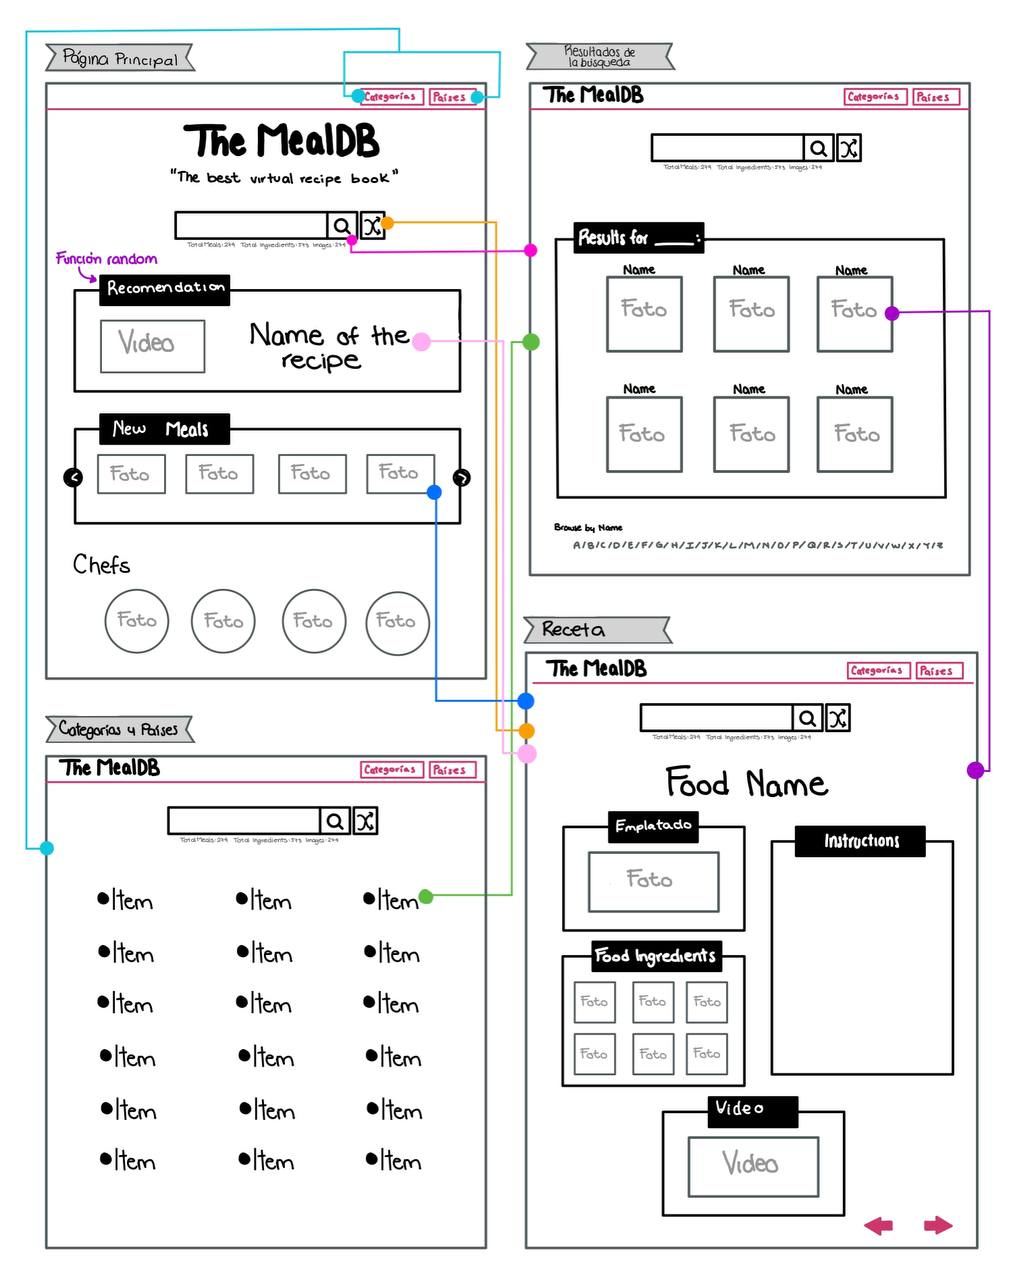
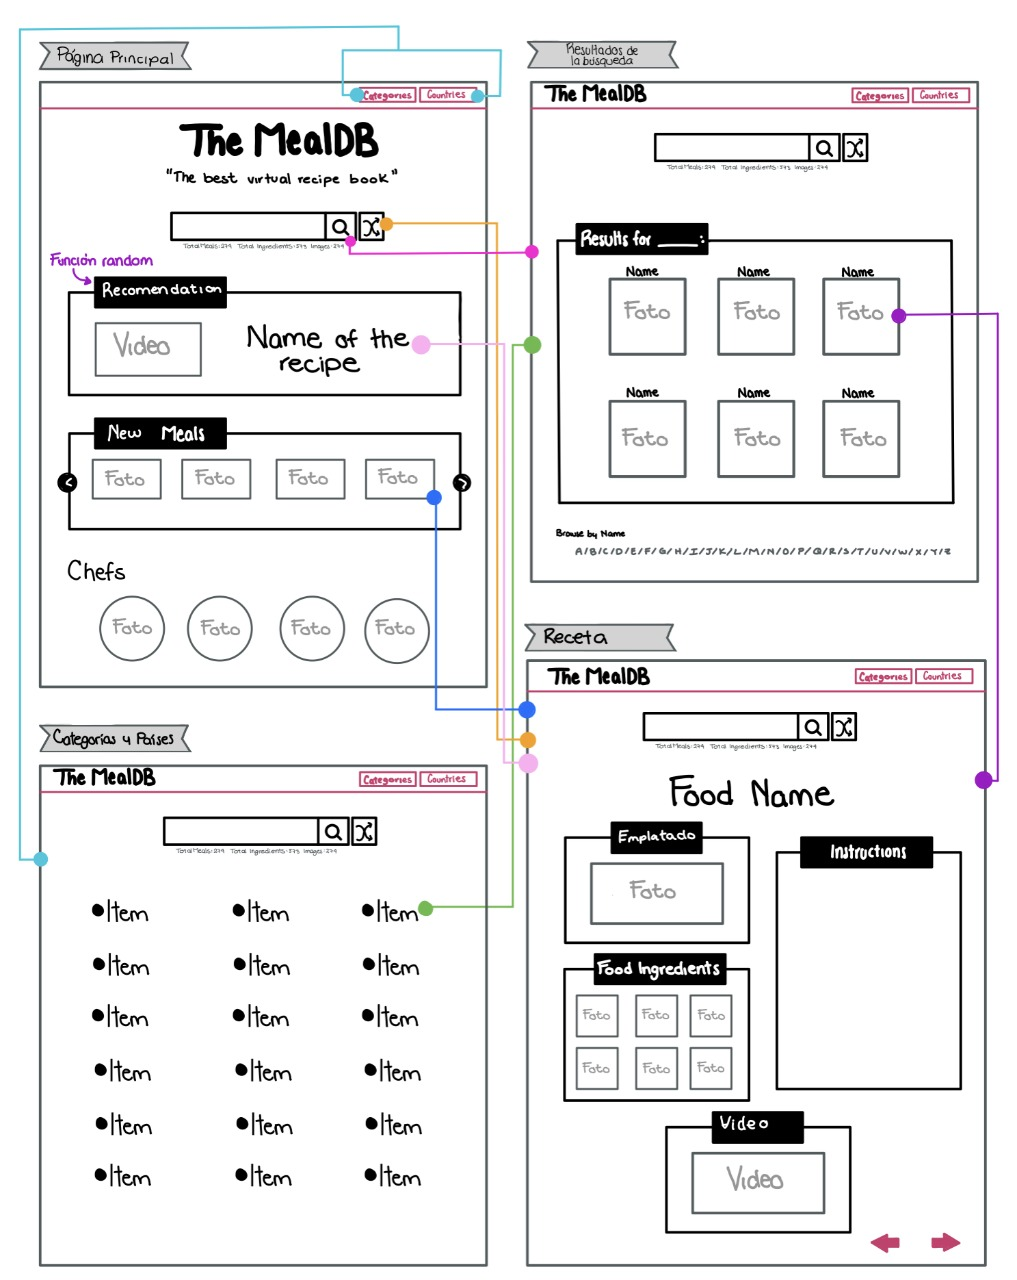
Actualización del readme

Changed region(s): [[0.0, 0.0, 0.9832, 1.0], [0.0922, 0.6875, 0.1536, 0.9375], [0.9217, 0.8125, 0.9524, 0.875]]

diff --git a/README.md b/README.md
@@ -4,7 +4,7 @@ Proyecto Final de la Fase 2 BEDU-Santander
 ## Integrantes del equipo
 * Castillo Del Valle Gabriela Aideé
 * Galíndez Marco Antonio
-* Karina
+* Karina Lizeth Ortiz Muñoz
 * García Eulogio Lourdes
 * Juliet Guadalupe Quintero Rocha
 
@@ -17,7 +17,7 @@ Proyecto Final de la Fase 2 BEDU-Santander
 
 Nota: El acomodo de todos los elementos junto con el diseño es completamente libre, se pueden usar librerías que ayudan con la UI como Bootstrap, Foundation, Materialize, etc.
 
-## Primera parte (09/0821)
+## Primera parte (09/08/21)
 La primera parte de ese proyecto y consiste en dejar listo el ambiente de desarrollo:
 * Desarrolla los mockups de la aplicación, esto te permitirá visualizar cómo se van a acomodar todos los elementos mucho antes de crear el código. Es parte fundamental en el desarrollo del software.
 * Instalar y configurar Webpack, Babel y Webpack Dev Server.
@@ -25,6 +25,35 @@ La primera parte de ese proyecto y consiste en dejar listo el ambiente de desarr
 * Configurar los loaders necesarios para los estilos, se puede utilizar CSS o SASS.
 
 ## Descripcion
-Como parte de nuestra vision, hemos desarrollado los mockups contemplando la realizacion de nuestro sistema en 2 fases, la primera con las caracteristicas indicadas en las instrucciones generales y ademas una version avanzada que se ilustra la cual se llevara a cabo cuando la primera este completada.
+Como parte de nuestra visión, hemos desarrollado los mockups contemplando la realizacion de nuestro sistema en 2 fases, la primera con las caracteristicas indicadas en las **instrucciones generales** y la segunda con una version avanzada, la cual será desarrollada al completar la primera fase.
 
-El repositorio con las configuraciones se encuentra en : [Repositorio del proyecto](https://github.com/Lulucornio/proyecto-m2)
+## Mockups
+
+![Mockups](mockups_de_la_aplicación.jpeg)
+
+En los mockups se pueden visualizar las pantallas contempladas para la entrega de este proyecto. Los componentes titulados *Categories text* y *Countries* forman parte de la fase 2 mencionada anteriormente.
+
+
+# Desarrollo:
+
+Dependencias principales: 
+  * Webpack y Webpack Dev Server
+  * Babel
+  * Bootstrap
+
+Loaders: 
+  * style-loader
+  * css-loader
+  * babel-loader
+  * html-loader
+  * sass-loader
+  * postcss-loader
+ 
+Plugins:
+  * html-webpack-plugin
+  
+Dependencias adicionales:
+  * @babel/core
+  * @babel/preset-env
+  * @popperjs/core
+
